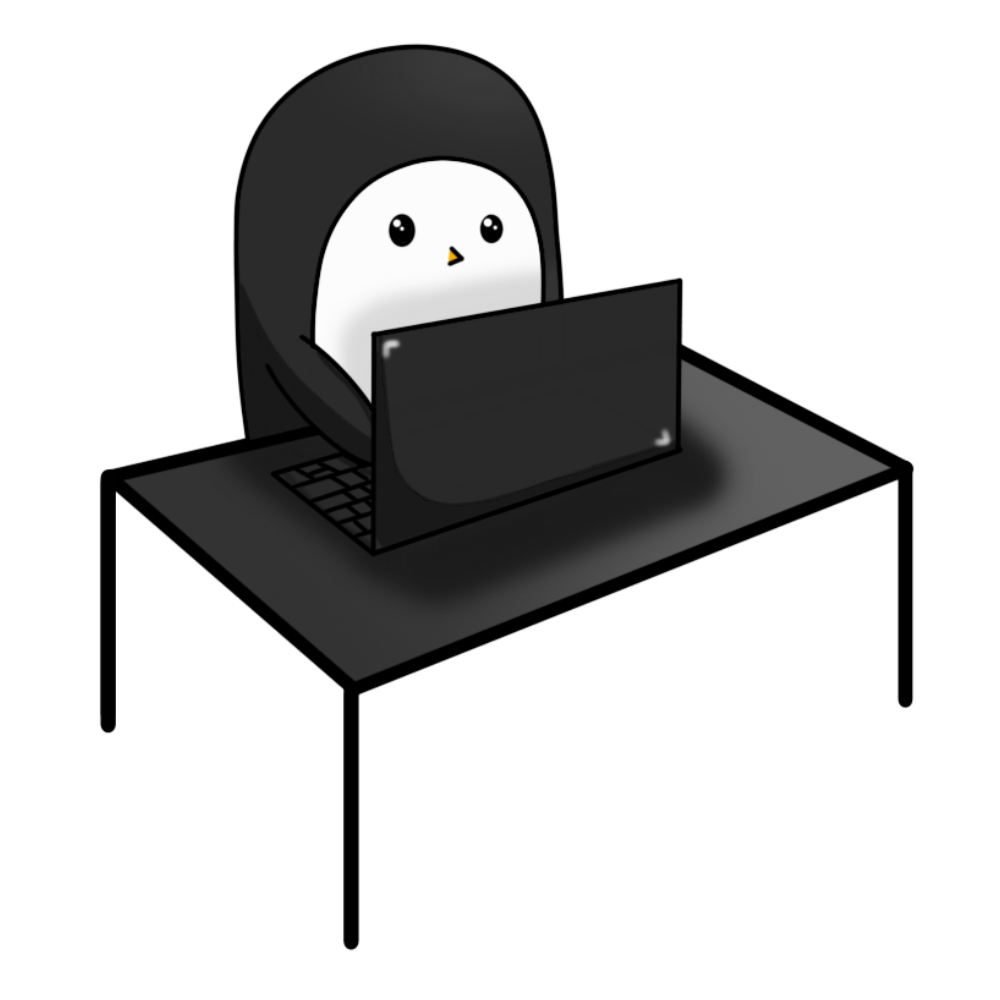
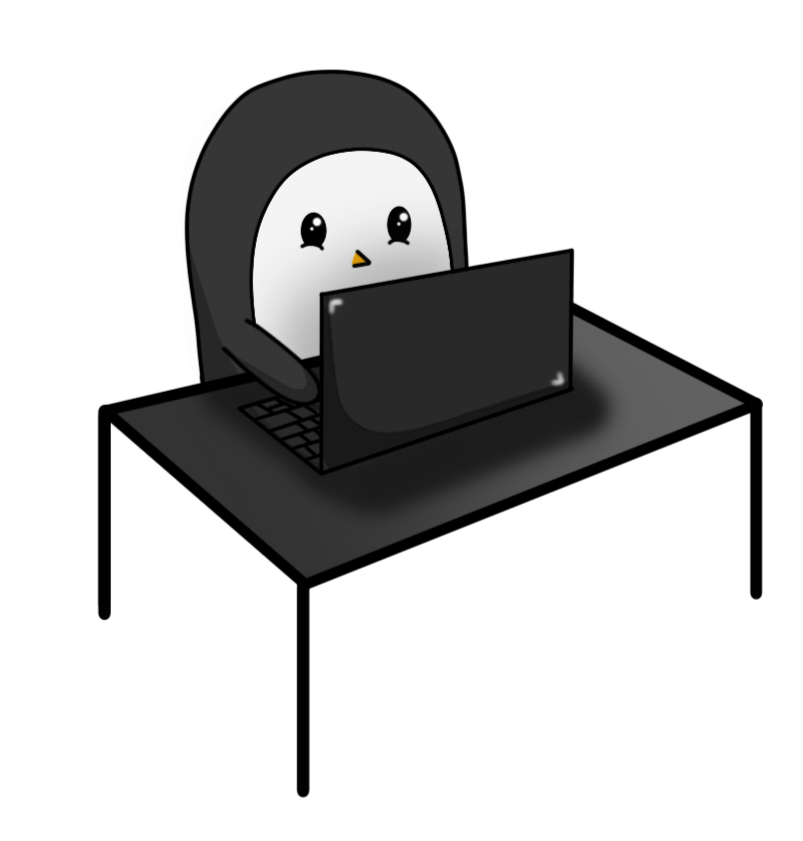
added some penguins

Changed region(s): [[0.0934, 0.0309, 0.9651, 0.9584], [0.3113, 0.2164, 0.3425, 0.2782]]

diff --git a/src/components/PageSections/PageSections.js b/src/components/PageSections/PageSections.js
@@ -28,7 +28,7 @@ import penguin_education from './penguins/penguin-education.png'
 import penguin_extracurriculars from './penguins/penguin-extracurriculars.png'
 import penguin_achievements from './penguins/penguin-achievements.png'
 import penguin_notes from './penguins/penguin-notes.png'
-// import penguin_credits from './penguins/penguin-credits.png'
+import penguin_credits from './penguins/penguin-credits.png'
 
 // import stylesheet
 import './PageSections.scss';
@@ -37,7 +37,7 @@ import './PageSections.scss';
 const pageSectionData = [
     {
         class: 'projects',
-        image: penguin_extracurriculars,
+        image: penguin_projects,
         title: 'My Coding Projects',
         desc: <p>
             Explore <i>My Course Graph</i>, a React website I designed which displays Waterloo courses
@@ -98,7 +98,7 @@ const pageSectionData = [
     },
     {
         class: 'credits',
-        image: penguin_extracurriculars,
+        image: penguin_credits,
         title: 'Credits and References',
         desc: <p>
             Go behind the scenes and learn how I designed this website, including

diff --git a/src/components/PageSections/PageSections.scss b/src/components/PageSections/PageSections.scss
@@ -152,6 +152,7 @@
 
 /* Projects */
 .projects-image {
+    width: 220%;
     background-image: url('./blobs/blob-projects.svg');
     background-size: 110%;
     background-position: 0;
@@ -223,7 +224,7 @@
 
 /* Awards/Achievements */
 .achievements-image {
-    padding: 10%;
+    width: 85%;
     background: url('./blobs/blob-achievements.svg');
     background-repeat: no-repeat;
     background-size: 110%;
